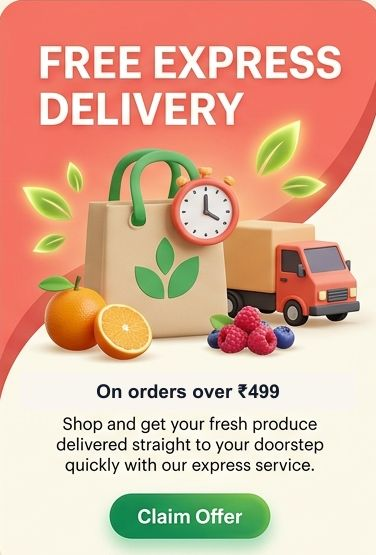
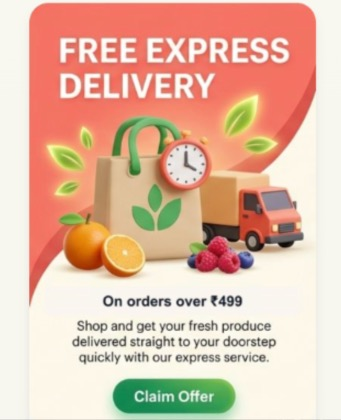
feat: render exact reference promo card images inside 3-grid layout without changes

diff --git a/src/components/PromoBanners.tsx b/src/components/PromoBanners.tsx
@@ -1,7 +1,7 @@
 'use client';
 
 import React, { useState } from 'react';
-import { Check, Copy, X, Gift, Sparkles, Tag, ArrowRight } from 'lucide-react';
+import { Check, Copy, X, Gift } from 'lucide-react';
 
 interface PromoBannersProps {
   onClaimOffer?: (offerTitle: string) => void;
@@ -21,35 +21,29 @@ export const PromoBanners: React.FC<PromoBannersProps> = ({ onClaimOffer }) => {
     {
       id: 'promo-1',
       title: '10% OFF FIRST ORDER',
-      tag: 'LIMITED TIME',
+      subtitle: 'LIMITED TIME OFFER',
       code: 'NANDI10',
       discount: '10% INSTANT OFF',
-      description: 'Join today and get an exclusive 10% discount on your entire first order of farm-fresh groceries.',
-      headerBg: 'bg-gradient-to-b from-emerald-600 via-emerald-600 to-emerald-700',
-      tagBg: 'bg-amber-100 text-amber-950 border-amber-300',
-      icon: '🥑🍎',
+      description: 'Get an exclusive 10% discount on your entire first order of farm-fresh groceries.',
+      image: '/promo-card-1.jpg',
     },
     {
       id: 'promo-2',
       title: 'FREE EXPRESS DELIVERY',
-      tag: 'On orders over ₹499',
+      subtitle: 'ON ORDERS OVER ₹499',
       code: 'FREEDEL',
       discount: 'FREE DELIVERY',
-      description: 'Shop and get your fresh produce delivered straight to your doorstep quickly with our express service.',
-      headerBg: 'bg-gradient-to-b from-rose-500 via-rose-600 to-red-600',
-      tagBg: 'bg-rose-100 text-rose-950 border-rose-300',
-      icon: '📦🚚',
+      description: 'Shop fresh produce over ₹499 and get zero delivery charges delivered straight to your door.',
+      image: '/promo-card-2.jpg',
     },
     {
       id: 'promo-3',
       title: '100% FARM FRESH',
-      tag: 'DIRECT FROM LOCAL FARMS',
+      subtitle: 'DIRECT FROM LOCAL FARMS',
       code: 'FARMFRESH',
       discount: 'FRESH HARVEST DEAL',
-      description: 'Enjoy the finest quality produce, harvested daily from local sustainable farms for maximum flavor and nutrition.',
-      headerBg: 'bg-gradient-to-b from-amber-500 via-amber-500 to-yellow-600',
-      tagBg: 'bg-amber-100 text-amber-950 border-amber-300',
-      icon: '🧺🥛',
+      description: 'Enjoy handpicked, chemical-free organic produce harvested daily from local sustainable farms.',
+      image: '/promo-card-3.jpg',
     },
   ];
 
@@ -73,56 +67,22 @@ export const PromoBanners: React.FC<PromoBannersProps> = ({ onClaimOffer }) => {
   };
 
   return (
-    <section className="w-full max-w-none px-4 sm:px-8 lg:px-12 py-6 my-2">
-      {/* 3 Arched Grid Offer Cards (Matching Reference Screenshot 1 & 2 Layout) */}
-      <div className="grid grid-cols-1 md:grid-cols-3 gap-6 sm:gap-8 items-stretch max-w-7xl mx-auto">
+    <section className="w-full max-w-none px-4 sm:px-8 lg:px-12 py-4 sm:py-6">
+      {/* 3 Standalone Full-Length Graphic Promo Grid Cards — Exact Reference Images */}
+      <div className="grid grid-cols-1 md:grid-cols-3 gap-5 sm:gap-6 items-stretch max-w-7xl mx-auto">
         {cards.map((card) => (
           <div
             key={card.id}
             onClick={() => handleOpenModal(card)}
-            className="group relative bg-[#fbfaf5] rounded-t-[75px] sm:rounded-t-[95px] rounded-b-3xl border border-gray-200/80 shadow-md hover:shadow-2xl transition-all duration-300 hover:-translate-y-2 cursor-pointer flex flex-col justify-between overflow-hidden"
+            className="rounded-3xl overflow-hidden shadow-lg hover:shadow-2xl group transform hover:-translate-y-1.5 transition-all duration-300 cursor-pointer w-full block bg-transparent border border-gray-100"
+            title={`Click to claim ${card.title}`}
           >
-            {/* Top Arched Graphic Header Container */}
-            <div className={`relative ${card.headerBg} pt-10 pb-8 px-6 text-center text-white rounded-t-[75px] sm:rounded-t-[95px] flex flex-col items-center justify-center overflow-hidden`}>
-              {/* Background Wave Accents */}
-              <div className="absolute top-0 inset-x-0 h-16 bg-white/10 rounded-b-full pointer-events-none"></div>
-              
-              {/* Main Bold Offer Title */}
-              <h3 className="text-2xl sm:text-3xl font-black tracking-tight leading-tight uppercase text-white drop-shadow-xs max-w-[220px]">
-                {card.title}
-              </h3>
-
-              {/* 3D Visual Illustration Box */}
-              <div className="my-4 relative z-10 w-28 h-28 sm:w-32 sm:h-32 rounded-3xl bg-white/20 backdrop-blur-xs flex items-center justify-center text-5xl sm:text-6xl shadow-inner group-hover:scale-110 transition-transform duration-300">
-                <span className="filter drop-shadow-md">{card.icon}</span>
-              </div>
-            </div>
-
-            {/* Bottom Card Content */}
-            <div className="p-6 text-center flex flex-col items-center justify-between flex-1 space-y-4">
-              {/* Offer Pill Tag */}
-              <div className={`px-4 py-1 rounded-full text-xs font-black uppercase tracking-wider border ${card.tagBg} shadow-xs`}>
-                {card.tag}
-              </div>
-
-              {/* Offer Description */}
-              <p className="text-xs sm:text-sm text-gray-600 font-medium leading-relaxed max-w-[280px]">
-                {card.description}
-              </p>
-
-              {/* Working Claim Offer CTA Button */}
-              <button
-                type="button"
-                onClick={(e) => {
-                  e.stopPropagation();
-                  handleOpenModal(card);
-                }}
-                className="w-full bg-emerald-600 hover:bg-emerald-700 text-white font-extrabold text-sm sm:text-base py-3 px-6 rounded-full shadow-lg hover:shadow-emerald-600/30 transition-all duration-200 flex items-center justify-center space-x-2 group/btn cursor-pointer active:scale-95"
-              >
-                <span>Claim Offer</span>
-                <ArrowRight className="w-4 h-4 group-hover/btn:translate-x-1 transition-transform" />
-              </button>
-            </div>
+            {/* Full Length Graphic Card Image (Zero Gap, Exact Reference Screenshot Image) */}
+            <img
+              src={card.image}
+              alt={card.title}
+              className="w-full h-auto block object-cover rounded-3xl group-hover:scale-[1.015] transition-transform duration-500"
+            />
           </div>
         ))}
       </div>
